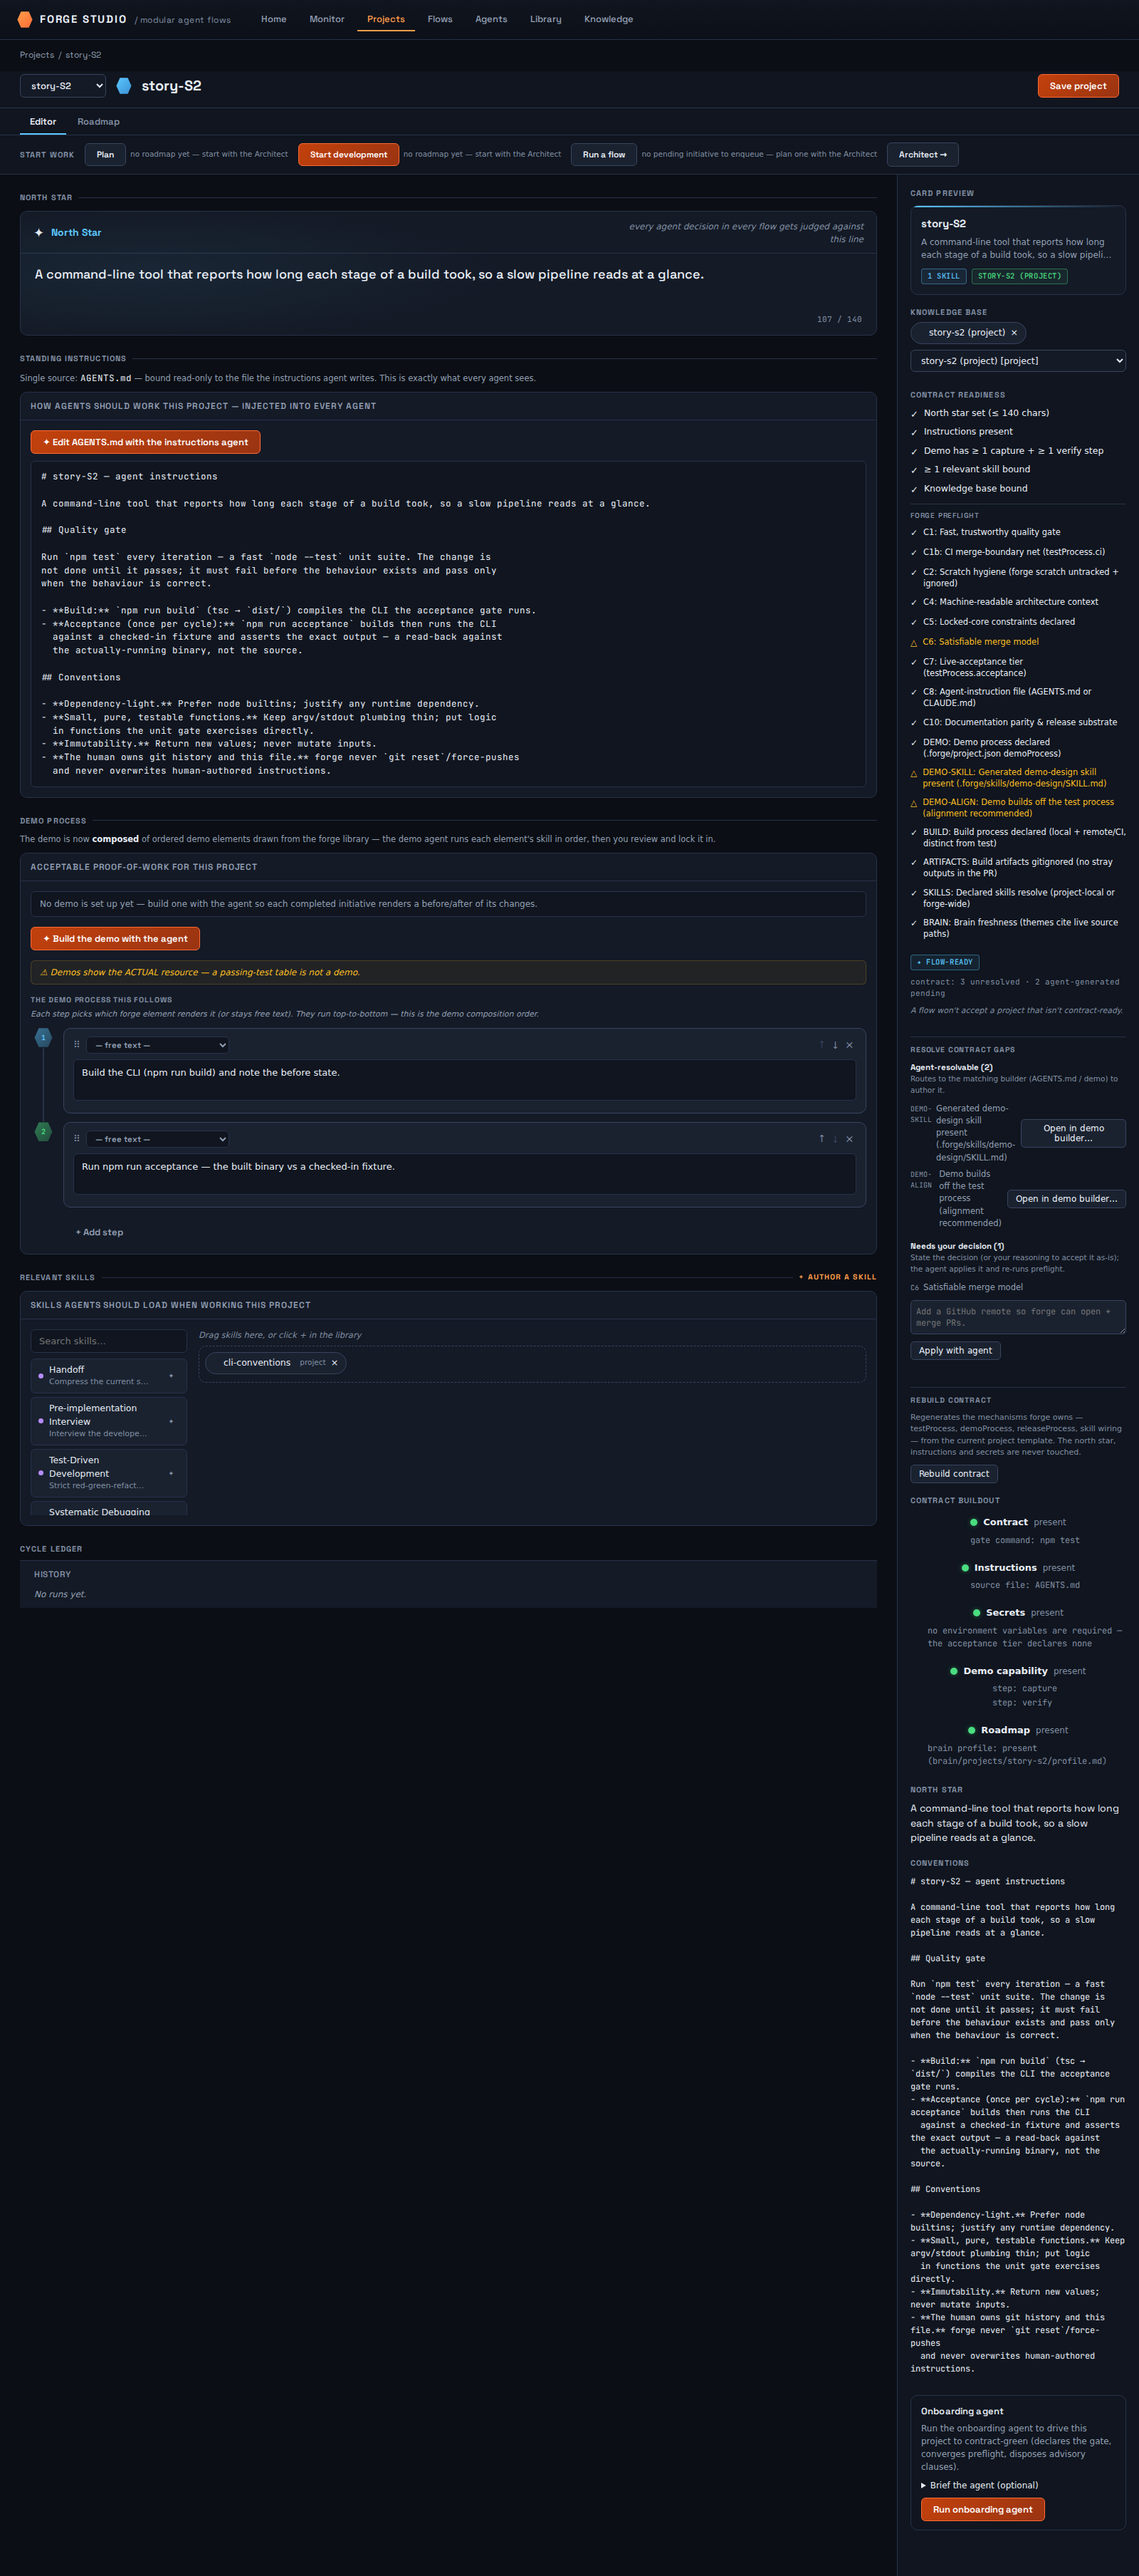
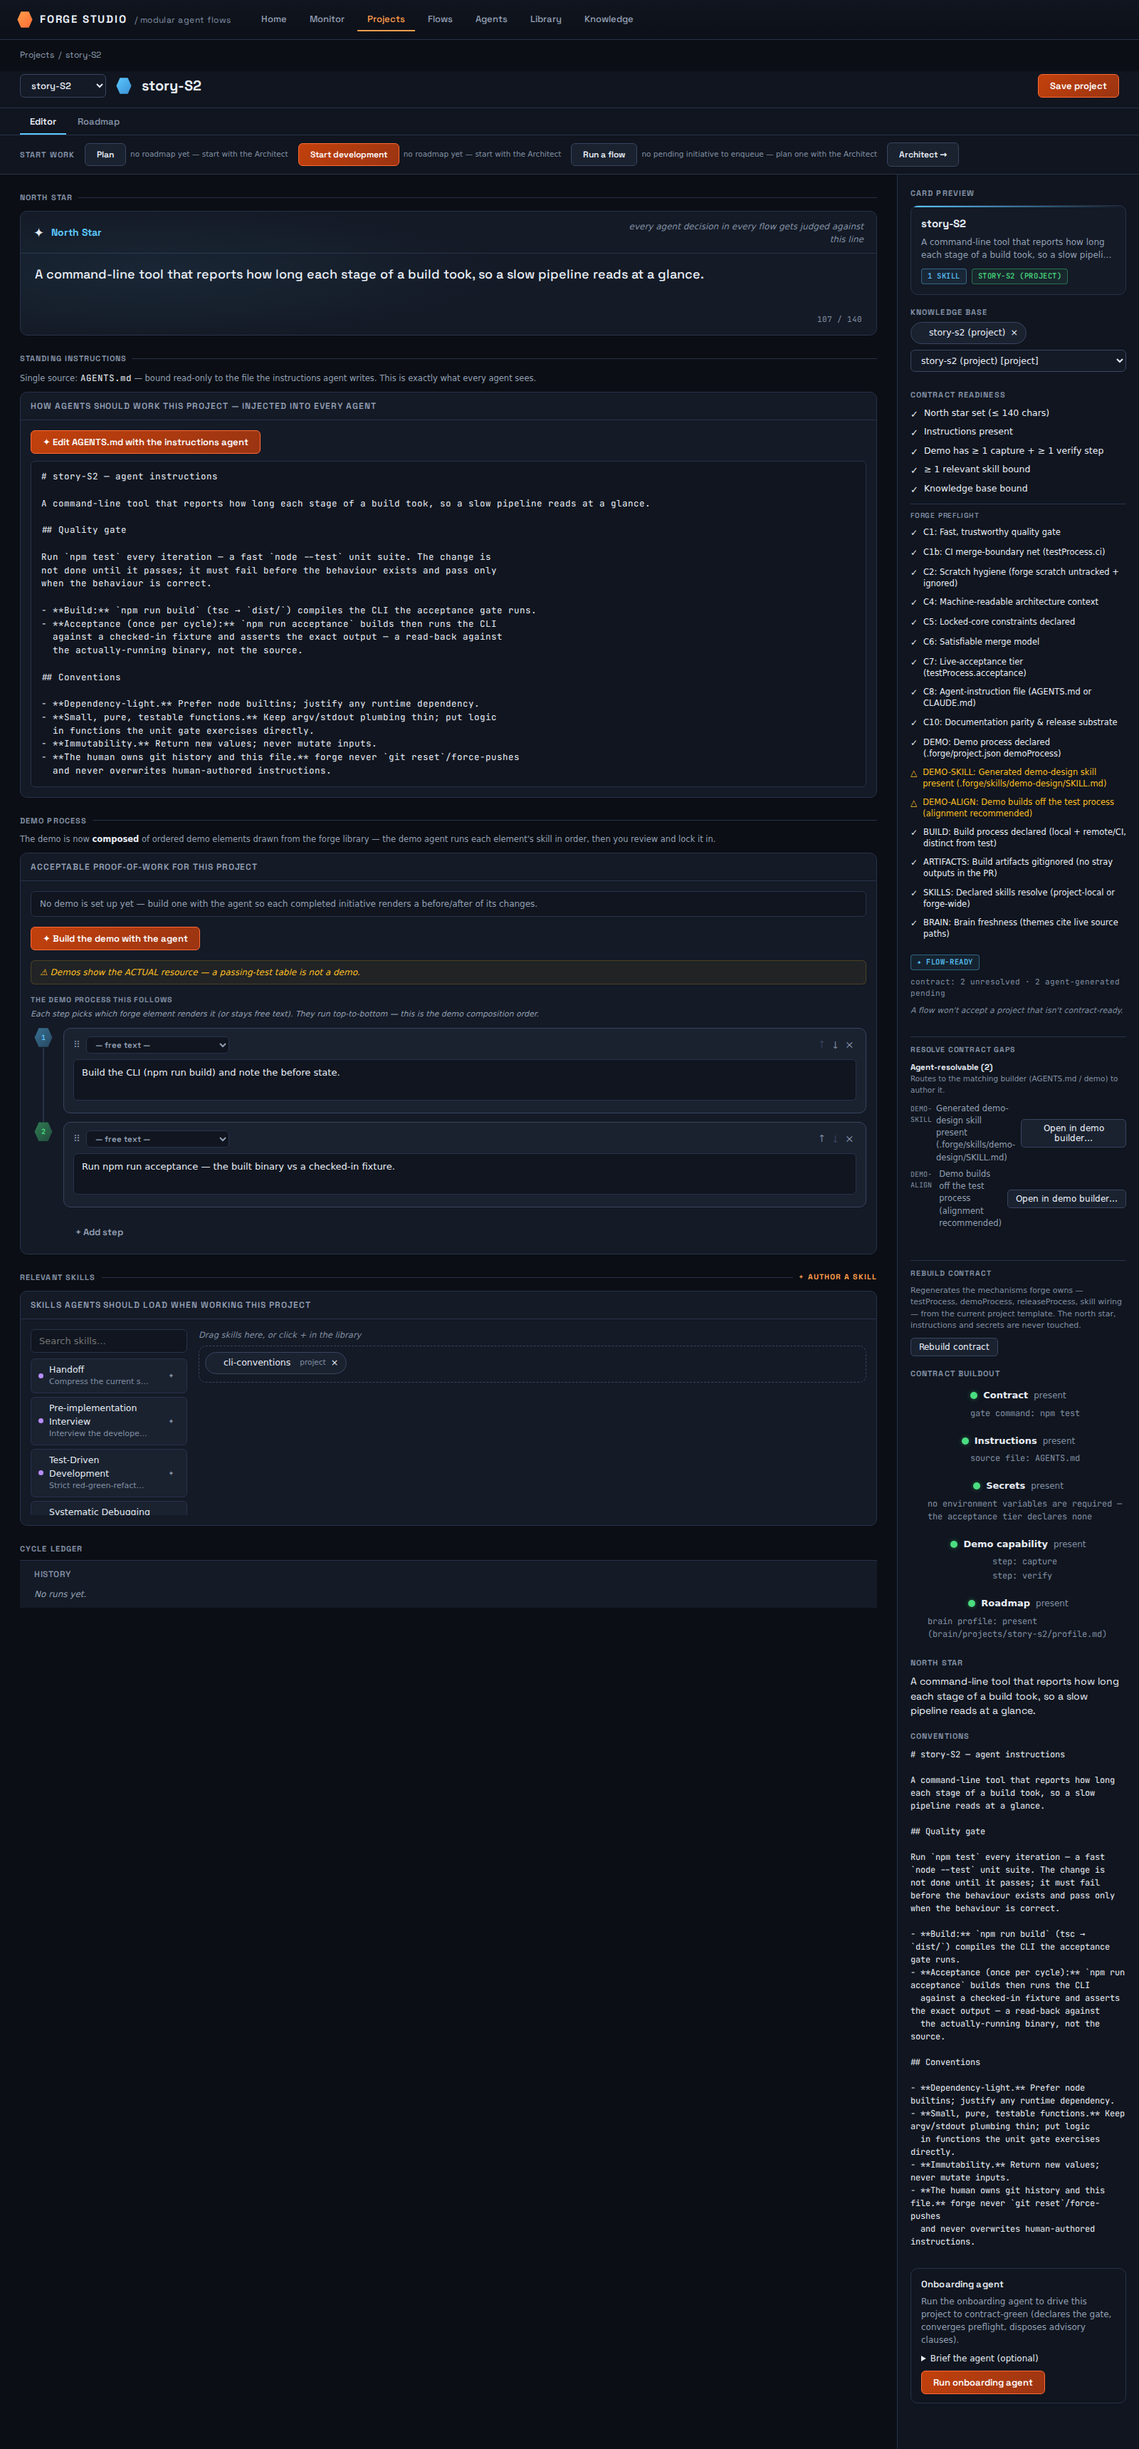
docs(stories): S2 green run 12 artifacts
The first green S2, landed on main alongside S3's and S4's generated docs
(T1 ruling 376). Evidence of the funded run that tested bead 6.11.52 at
merged main ec124b0e: `S2: green — 13/13 beats green`, $1.5257.

Beats 1-11 green in 15 s; beat 12 — red on runs 9, 10 (void) and 11 — green,
and beat 13 green with it. Both predictions filed before the money held.

Contents: the 13 frames, the story.json, the gallery row and the regenerated
docs/tutorials/S2.md. S2 declares itself a tutorial, so docs/how-to/S2.md is
not expected and its absence is not a gap.

THE CLIP IS NOT HERE and cannot be: `.gitignore:188` excludes
`demos/stories/**/*.webm`, so no story's clip is tracked — S3's and S4's are
not on main either. demos/stories/S2/story.webm (36 MB) stays in the lane
worktree with the run log that cites it.

No pinned path is touched: `git diff parsoFish/main -- tests/stories` is empty,
and neither the tutorial nor demos/stories matches any live manifest's globs.

Beads: forge-8vfn.6.11.52 (closed, the fix this run tested) ·
forge-8vfn.6.11.53 (P3, filed here — the trailing sweep's remote-delete
reporting contradicts itself and loses the repo name)

Claude-Session: https://claude.ai/code/session_01JdERBGcLYtsBE7YGcu6uLn

Changed region(s): [[0.0, 0.0, 1.0, 0.9959], [0.9062, 0.0311, 0.9688, 0.0622]]

diff --git a/demos/stories/index.html b/demos/stories/index.html
@@ -27,9 +27,9 @@
     <p class="verdict red">red · 7/11 beats green</p>
     <video src="S1/story.webm" autoplay loop muted playsinline></video>
   </section>
-  <section class="story red">
+  <section class="story green">
     <h2>S2 — Create a new project from scratch</h2>
-    <p class="verdict red">red · 10/13 beats green</p>
+    <p class="verdict green">green · 13/13 beats green</p>
     <video src="S2/story.webm" autoplay loop muted playsinline></video>
   </section>
   <section class="story red">

diff --git a/docs/tutorials/S2.md b/docs/tutorials/S2.md
@@ -8,8 +8,6 @@ generated_from: tests/stories/S2.story.mjs
 
 > Generated by `npm run stories -- --story S2` from `tests/stories/S2.story.mjs`. Do not hand-edit — edit the story and re-run it.
 
-> **This story did not pass.** The steps marked RED below describe what the operator flow is meant to do, not what it currently does.
-
 ## 1. Open Studio on the Projects pillar
 
 The Projects pillar lists every project forge manages. The tool this story is about is not here — it does not exist yet, on disk or anywhere else. That is the starting state: no repo, no contract, nothing to point a Flow at.
@@ -41,11 +39,11 @@ One page hosts both doors into forge: register a repo that already exists, or sc
 
 </details>
 
-## 3. Name it, say what it is for, pick the "typescript-cli" starter, and press "Create project"
+## 3. Name it, say what it is for, pick the "cli" starter, and press "Create project"
 
 Forge writes the repo from the starter, makes the first commit in it, and lands the operator on the project page. Nothing linked here a moment ago — the route exists because the button was pressed.
 
-![Name it, say what it is for, pick the "typescript-cli" starter, and press "Create project"](frames/03-name-it-say-what-it-is-for-pick-the-type.png)
+![Name it, say what it is for, pick the "cli" starter, and press "Create project"](frames/03-name-it-say-what-it-is-for-pick-the-cli-.png)
 
 <details><summary>What you should see</summary>
 
@@ -74,11 +72,6 @@ This is the promise a starter exists to keep, stated exactly. Onboarding an exis
 
 The panel that catches a half-onboarded repo is where the difference shows. Nothing here is waiting on the operator: the two open clauses are the demo skill and its alignment, and the contract says outright that an agent generates them. Creation does not promise a demo it has not run. Every clause a template can answer, the starter answered — and the two it cannot are named, owned and counted rather than quietly ticked.
 
-> **This step is RED — not verified working.** The run asserted state the product did not show:
->
-> - data-resolution-failing-count: expected "2", got "3"
-> - data-resolution-user-count: expected "0", got "1"
-
 ![Look at what forge says is still unresolved, and who owes it](frames/05-look-at-what-forge-says-is-still-unresol.png)
 
 <details><summary>What you should see</summary>
@@ -86,8 +79,8 @@ The panel that catches a half-onboarded repo is where the difference shows. Noth
 - `data-page` is `projects`
 - `data-project-id` is `story-s2`
 - `data-section` is `contract-resolution`
-- `data-resolution-failing-count` is `3`
-- `data-resolution-user-count` is `1`
+- `data-resolution-failing-count` is `2`
+- `data-resolution-user-count` is `0`
 - `data-resolution-agent-count` is `2`
 
 </details>
@@ -162,7 +155,7 @@ The Architect is a real Agent and a real Agent costs money, so the operator sets
 
 - `data-page` is `architect-new`
 - `data-section` is `new-idea`
-- `data-architect-session-id` is `2026-09-05T05-49-56-a6e56570`
+- `data-architect-session-id` is `2026-09-07T07-45-34-5aaa1d86`
 
 </details>
 
@@ -185,13 +178,6 @@ Monitor is the one surface that answers "what is running, and what is stuck". Th
 
 The Architect interviews before it plans. The operator supplies the context only they have — what "done" means, what must not break — and the session moves to awaiting a verdict once the plan is drafted.
 
-> **This step is RED — not verified working.** The run asserted state the product did not show:
->
-> - could not fill [data-field="session-answer"] with "The gate command is `npm test`. The timings come from the build tool's own output — never re-implement a build. Breaking the existing human-readable output is not acceptable; --json is additive.": locator.evaluate: Timeout 5000ms exceeded.
-Call log:
-[2m  - waiting for locator('[data-field="session-answer"]').first()[22m
-. no element carries that handle.
-
 ![Open the session again and answer the Architect's questions about the project](frames/12-open-the-session-again-and-answer-the-ar.png)
 
 <details><summary>What you should see</summary>
@@ -199,7 +185,7 @@ Call log:
 - `data-page` is `session`
 - `data-page-ready` is `true`
 - `data-session-kind` is `architect`
-- `data-session-phase` is `interviewing`
+- `data-session-phase` is `awaiting-verdict`
 
 </details>
 
@@ -207,11 +193,13 @@ Call log:
 
 This is the plan gate — the first Gate a human stands at, and where S2 ends. A starter became a repo, the repo became a contract-ready project, and the first Flow run on it reached the gate with a plan waiting on a decision. Nothing is approved yet: that decision is the operator's, and S10 is the story that makes it.
 
-> **This step is RED — not verified working.** The run asserted state the product did not show:
->
-> - could not press [data-action="open-plan"]: locator.click: Timeout 15000ms exceeded.
-Call log:
-[2m  - waiting for locator('[data-action="open-plan"]').first()[22m
-. no element carries that handle.
-
 ![Open the plan and stand at the gate](frames/13-open-the-plan-and-stand-at-the-gate.png)
+
+<details><summary>What you should see</summary>
+
+- `data-section` is `architect-plan`
+- `data-architect-phase` is `awaiting-verdict`
+- `data-gate-armed` is `true`
+- `data-plan-mode` is `gate`
+
+</details>
